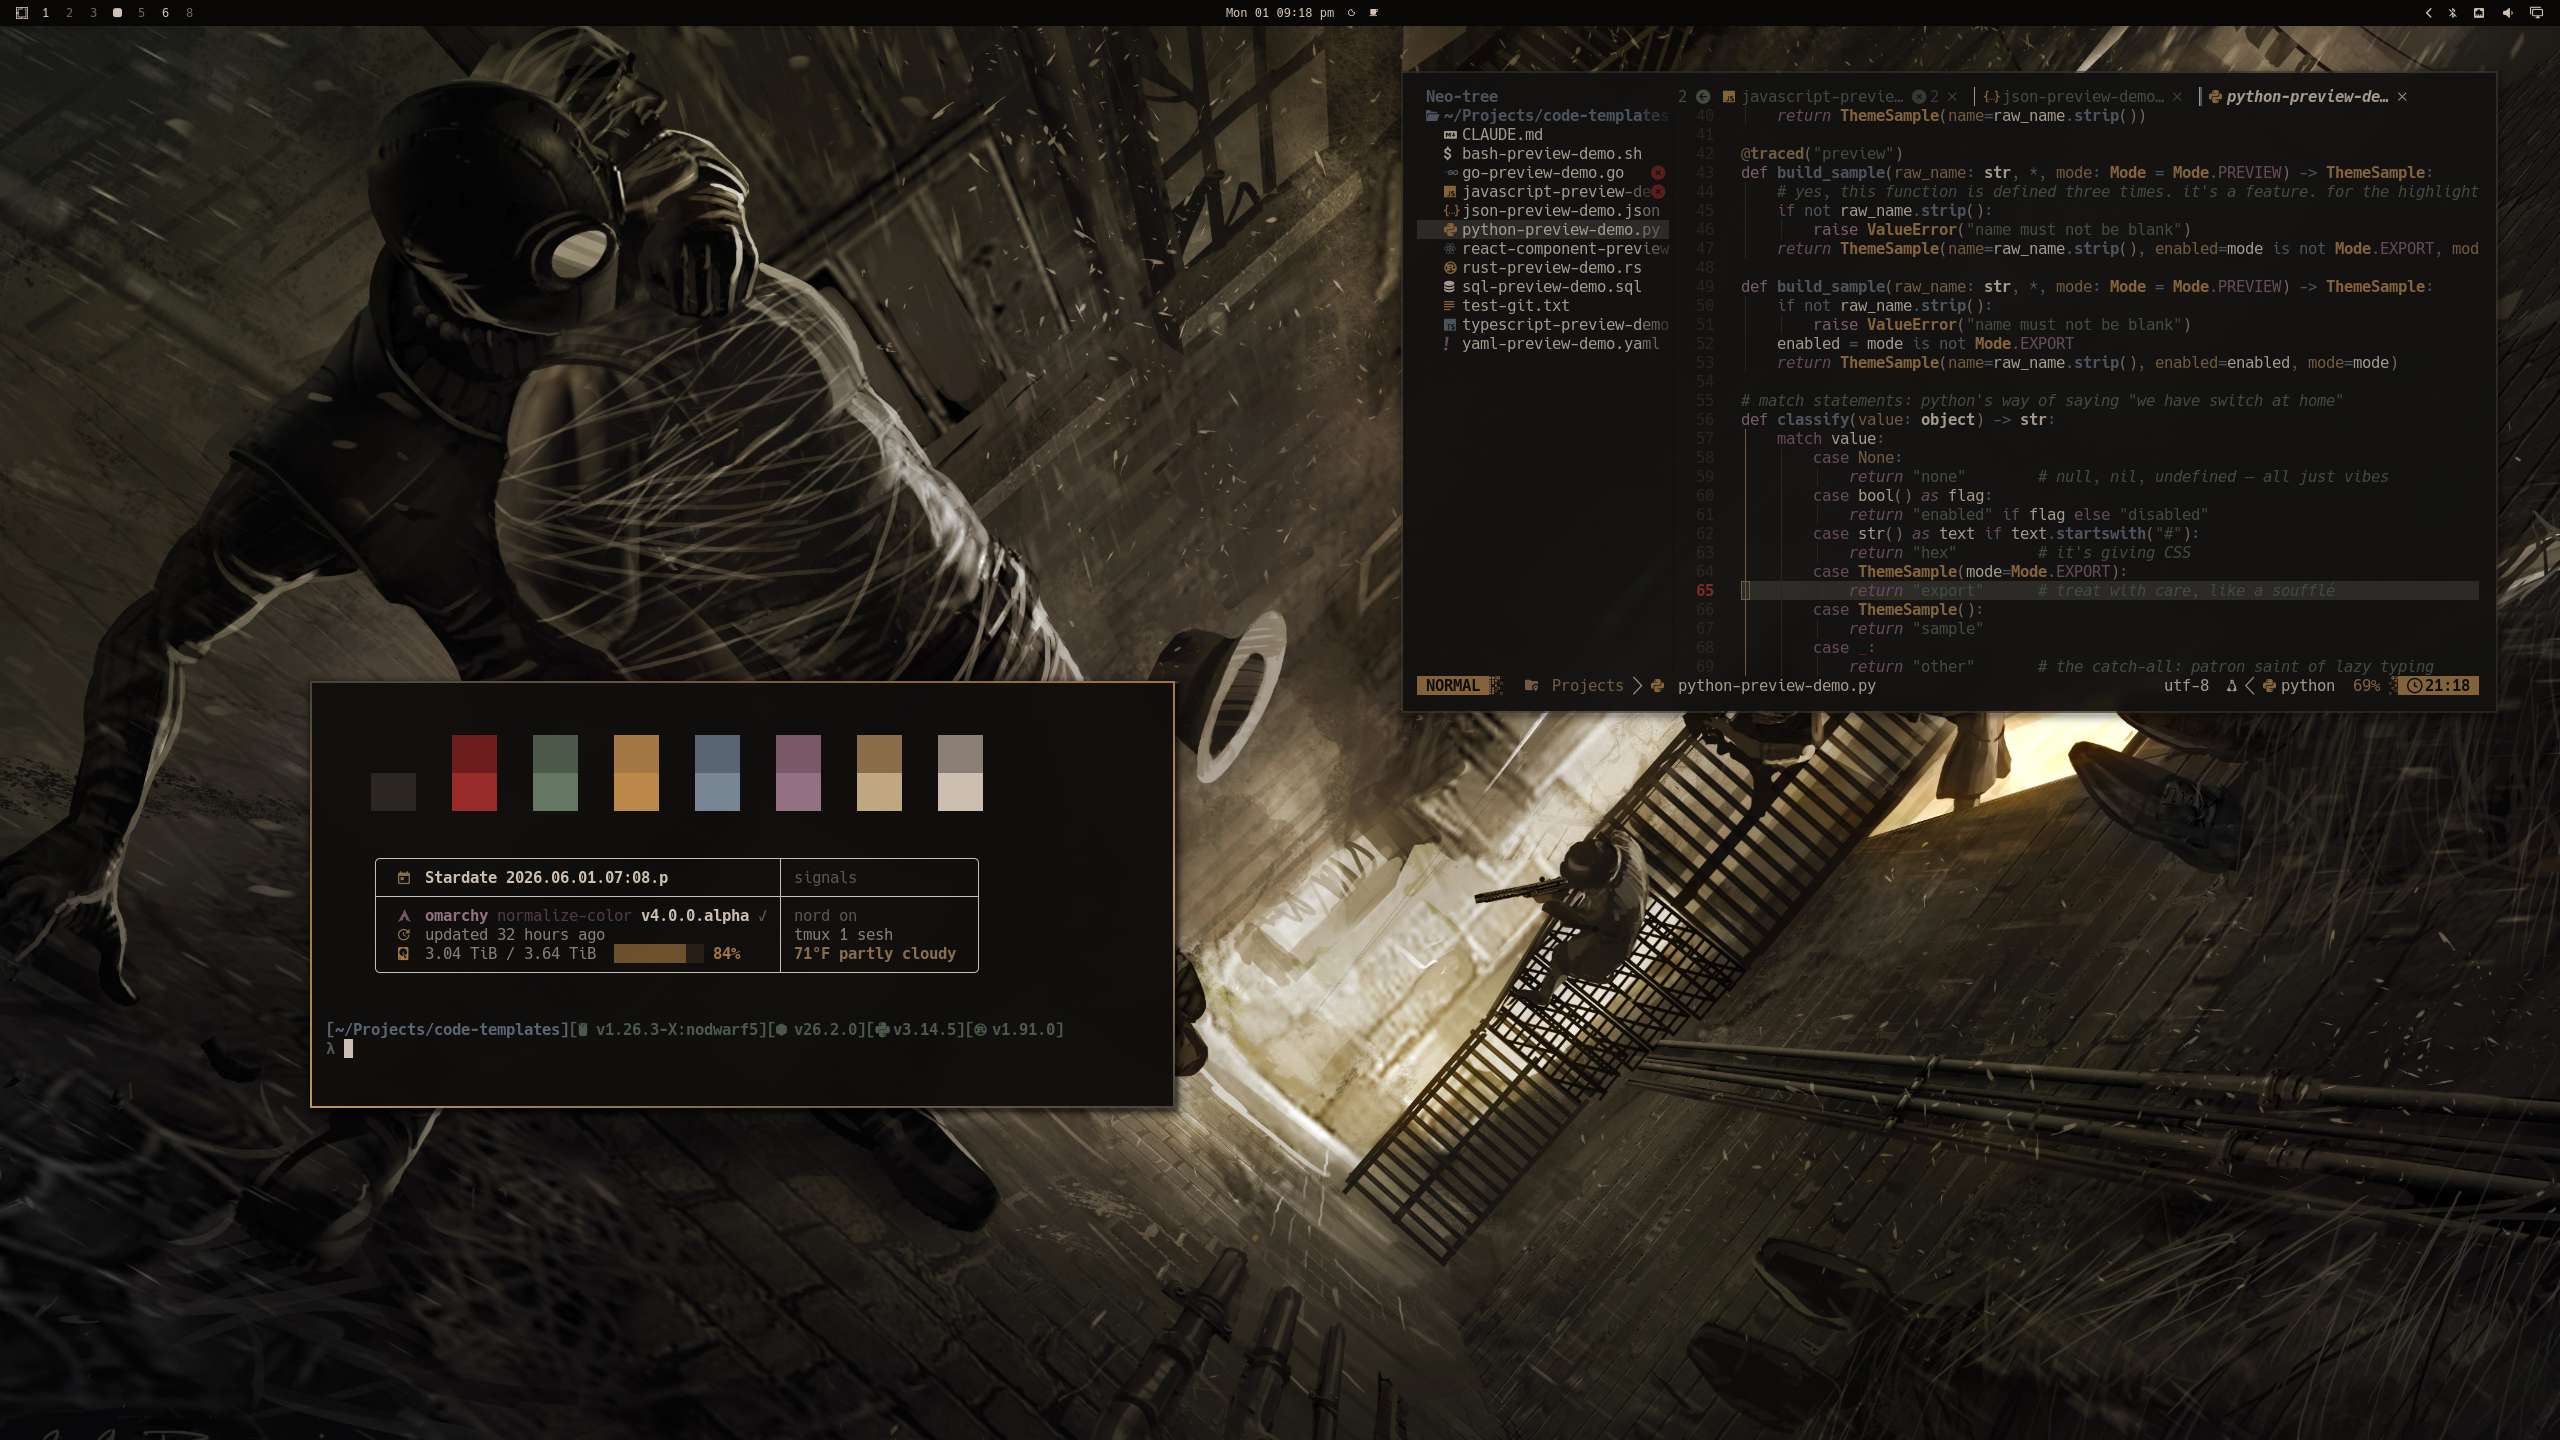
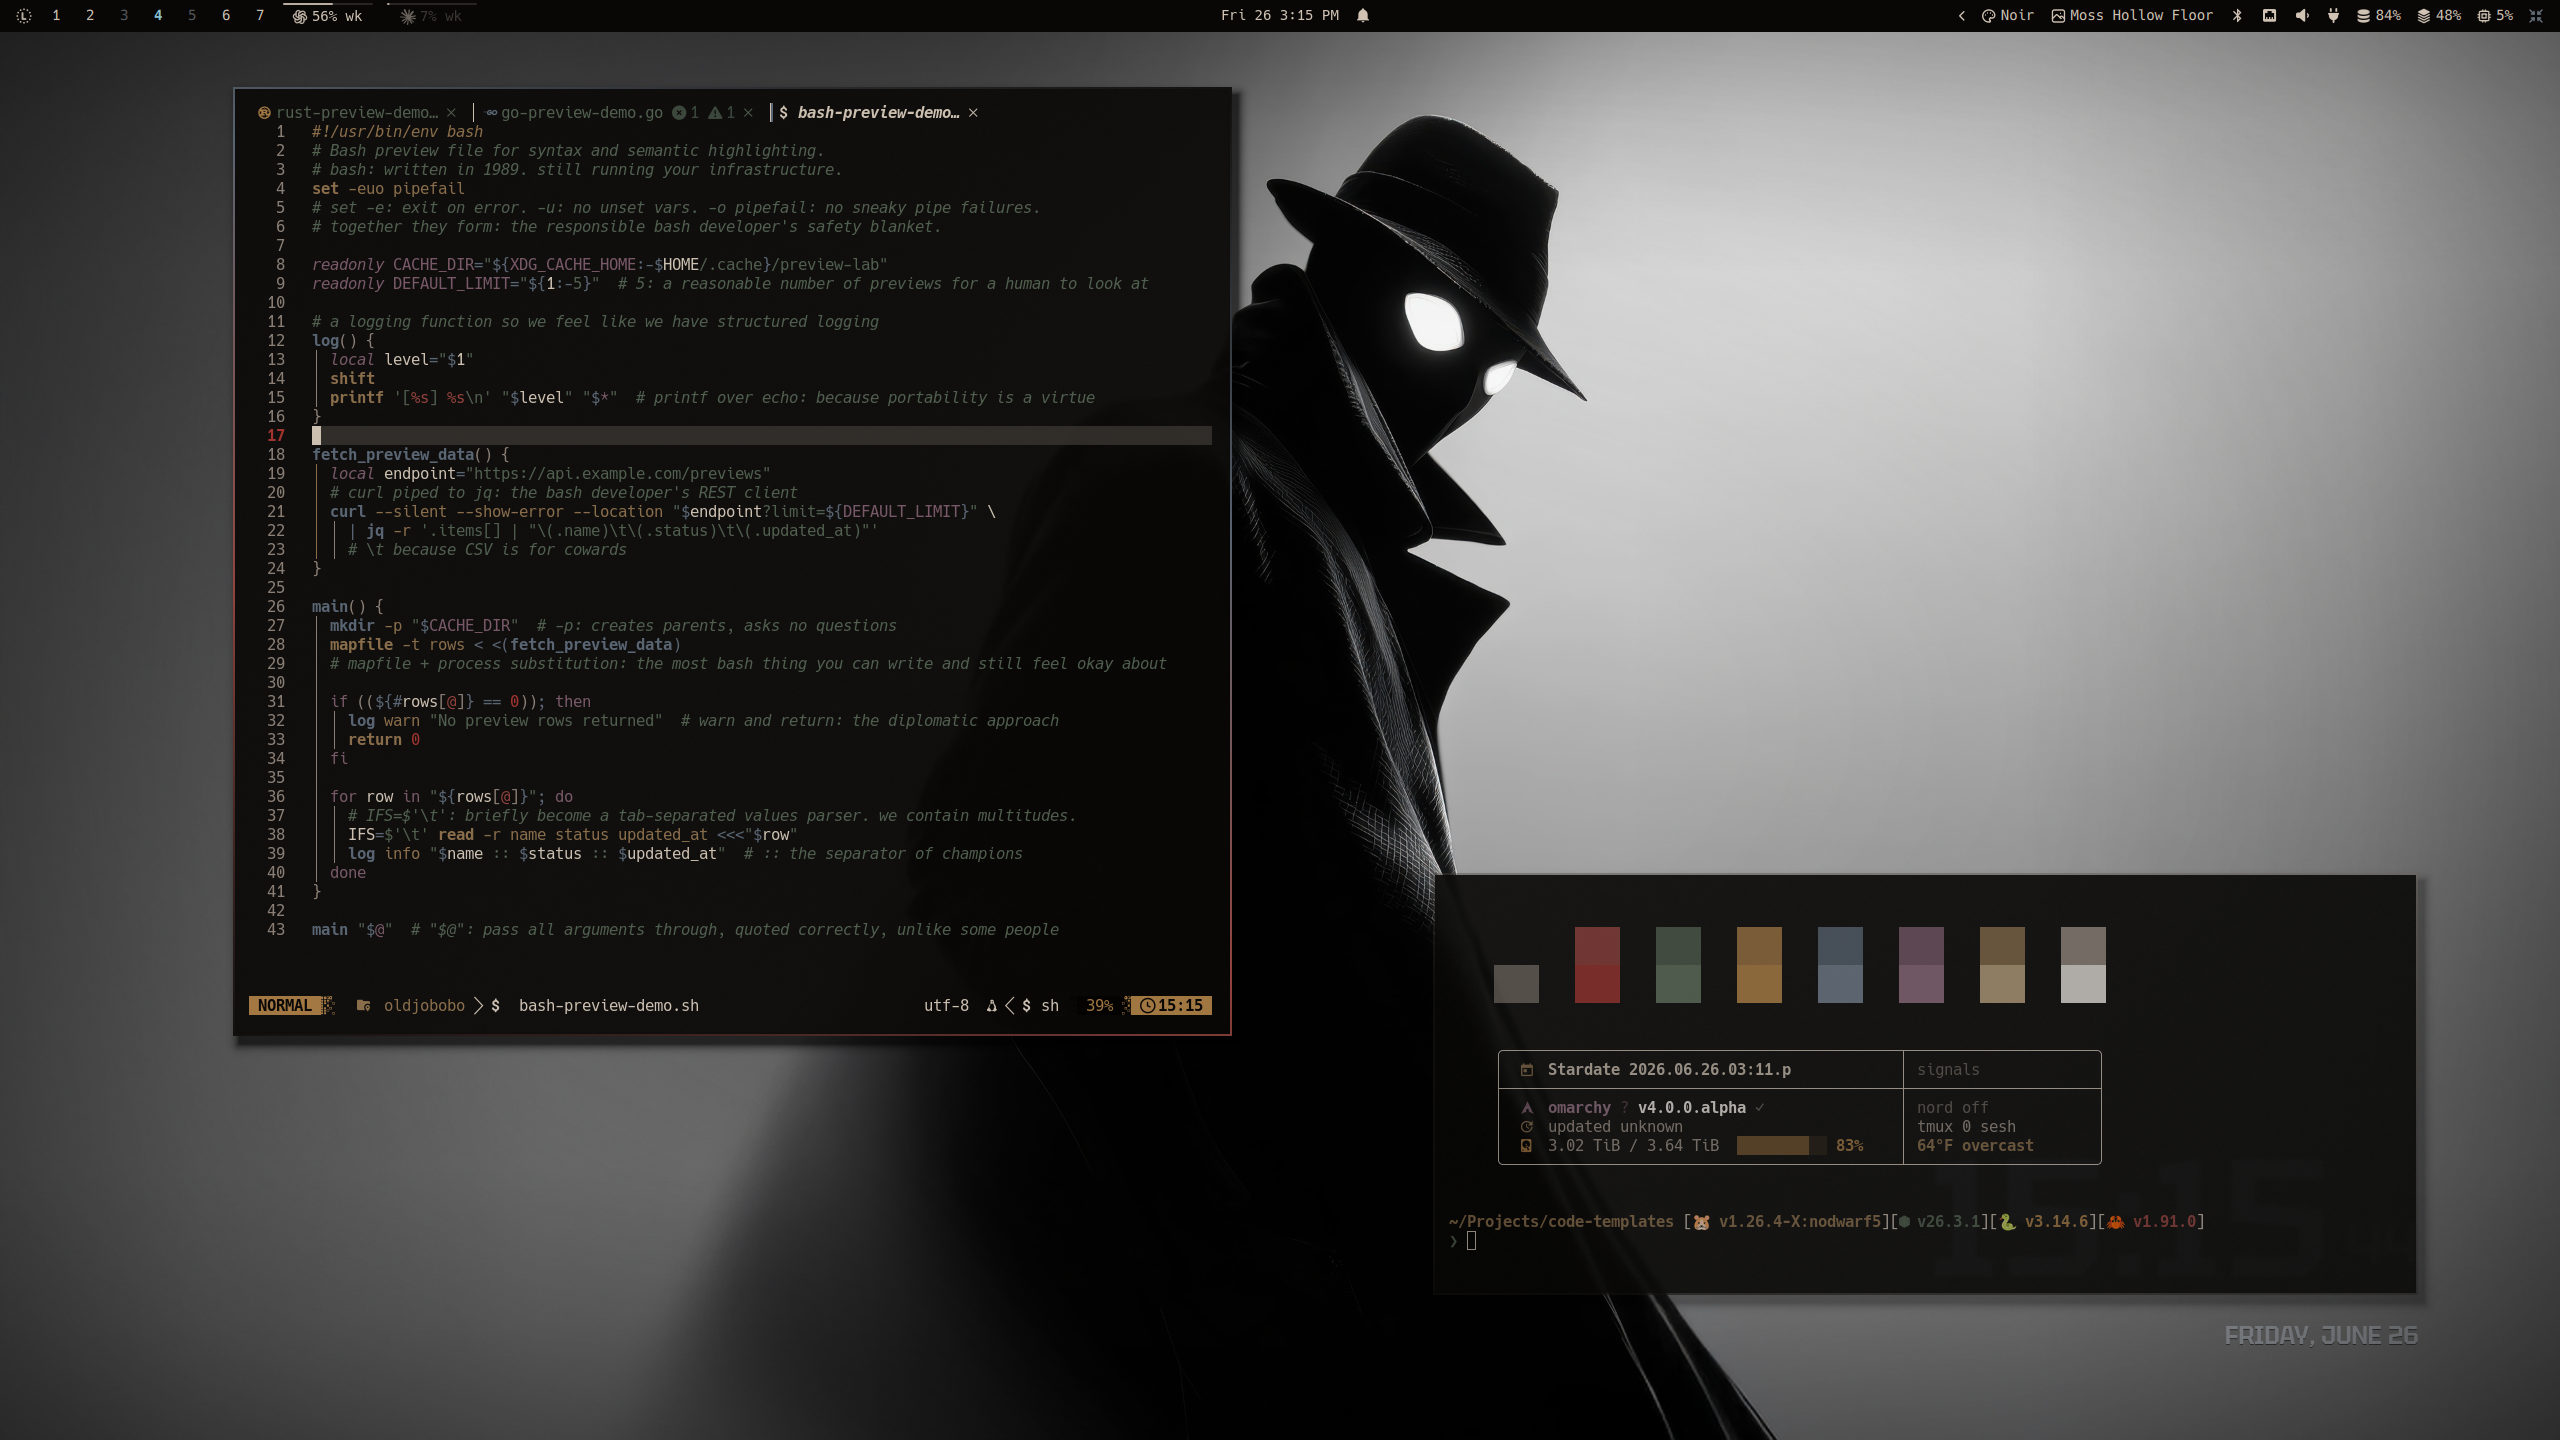
Refresh Noir theme presentation

diff --git a/README.md b/README.md
@@ -1,6 +1,6 @@
 # Omarchy Noir Theme
 
-A dark Omarchy theme with ink-black surfaces, parchment text, amber focus states, clay red warnings, moss green status color, smoked blue accents, and muted plum. It is built for a hard-edged noir desktop: low glow, sharp borders, deep shadows, and rain-dark wallpaper scenes.
+A dark Omarchy theme with ink-black surfaces, parchment text, amber focus states, clay red warnings, moss green status color, smoked blue accents, and muted plum. It takes its cues from Spider-Noir imagery without narrowing the desktop to a character skin: low glow, sharp borders, deep shadows, and rain-dark wallpaper scenes.
 
 ## Preview
 
@@ -66,7 +66,6 @@ omarchy-theme-install https://github.com/OldJobobo/omarchy-noir-theme
 
 - `preview.png` is the only preview asset currently shipped.
 - The Vencord theme imports `system24.css` from GitHub Pages, so Discord theming depends on that upstream stylesheet being reachable.
-- The wallpaper pack is large for a theme repo. Re-encoding or trimming the set is recommended before a public release.
 
 ## Attribution
 